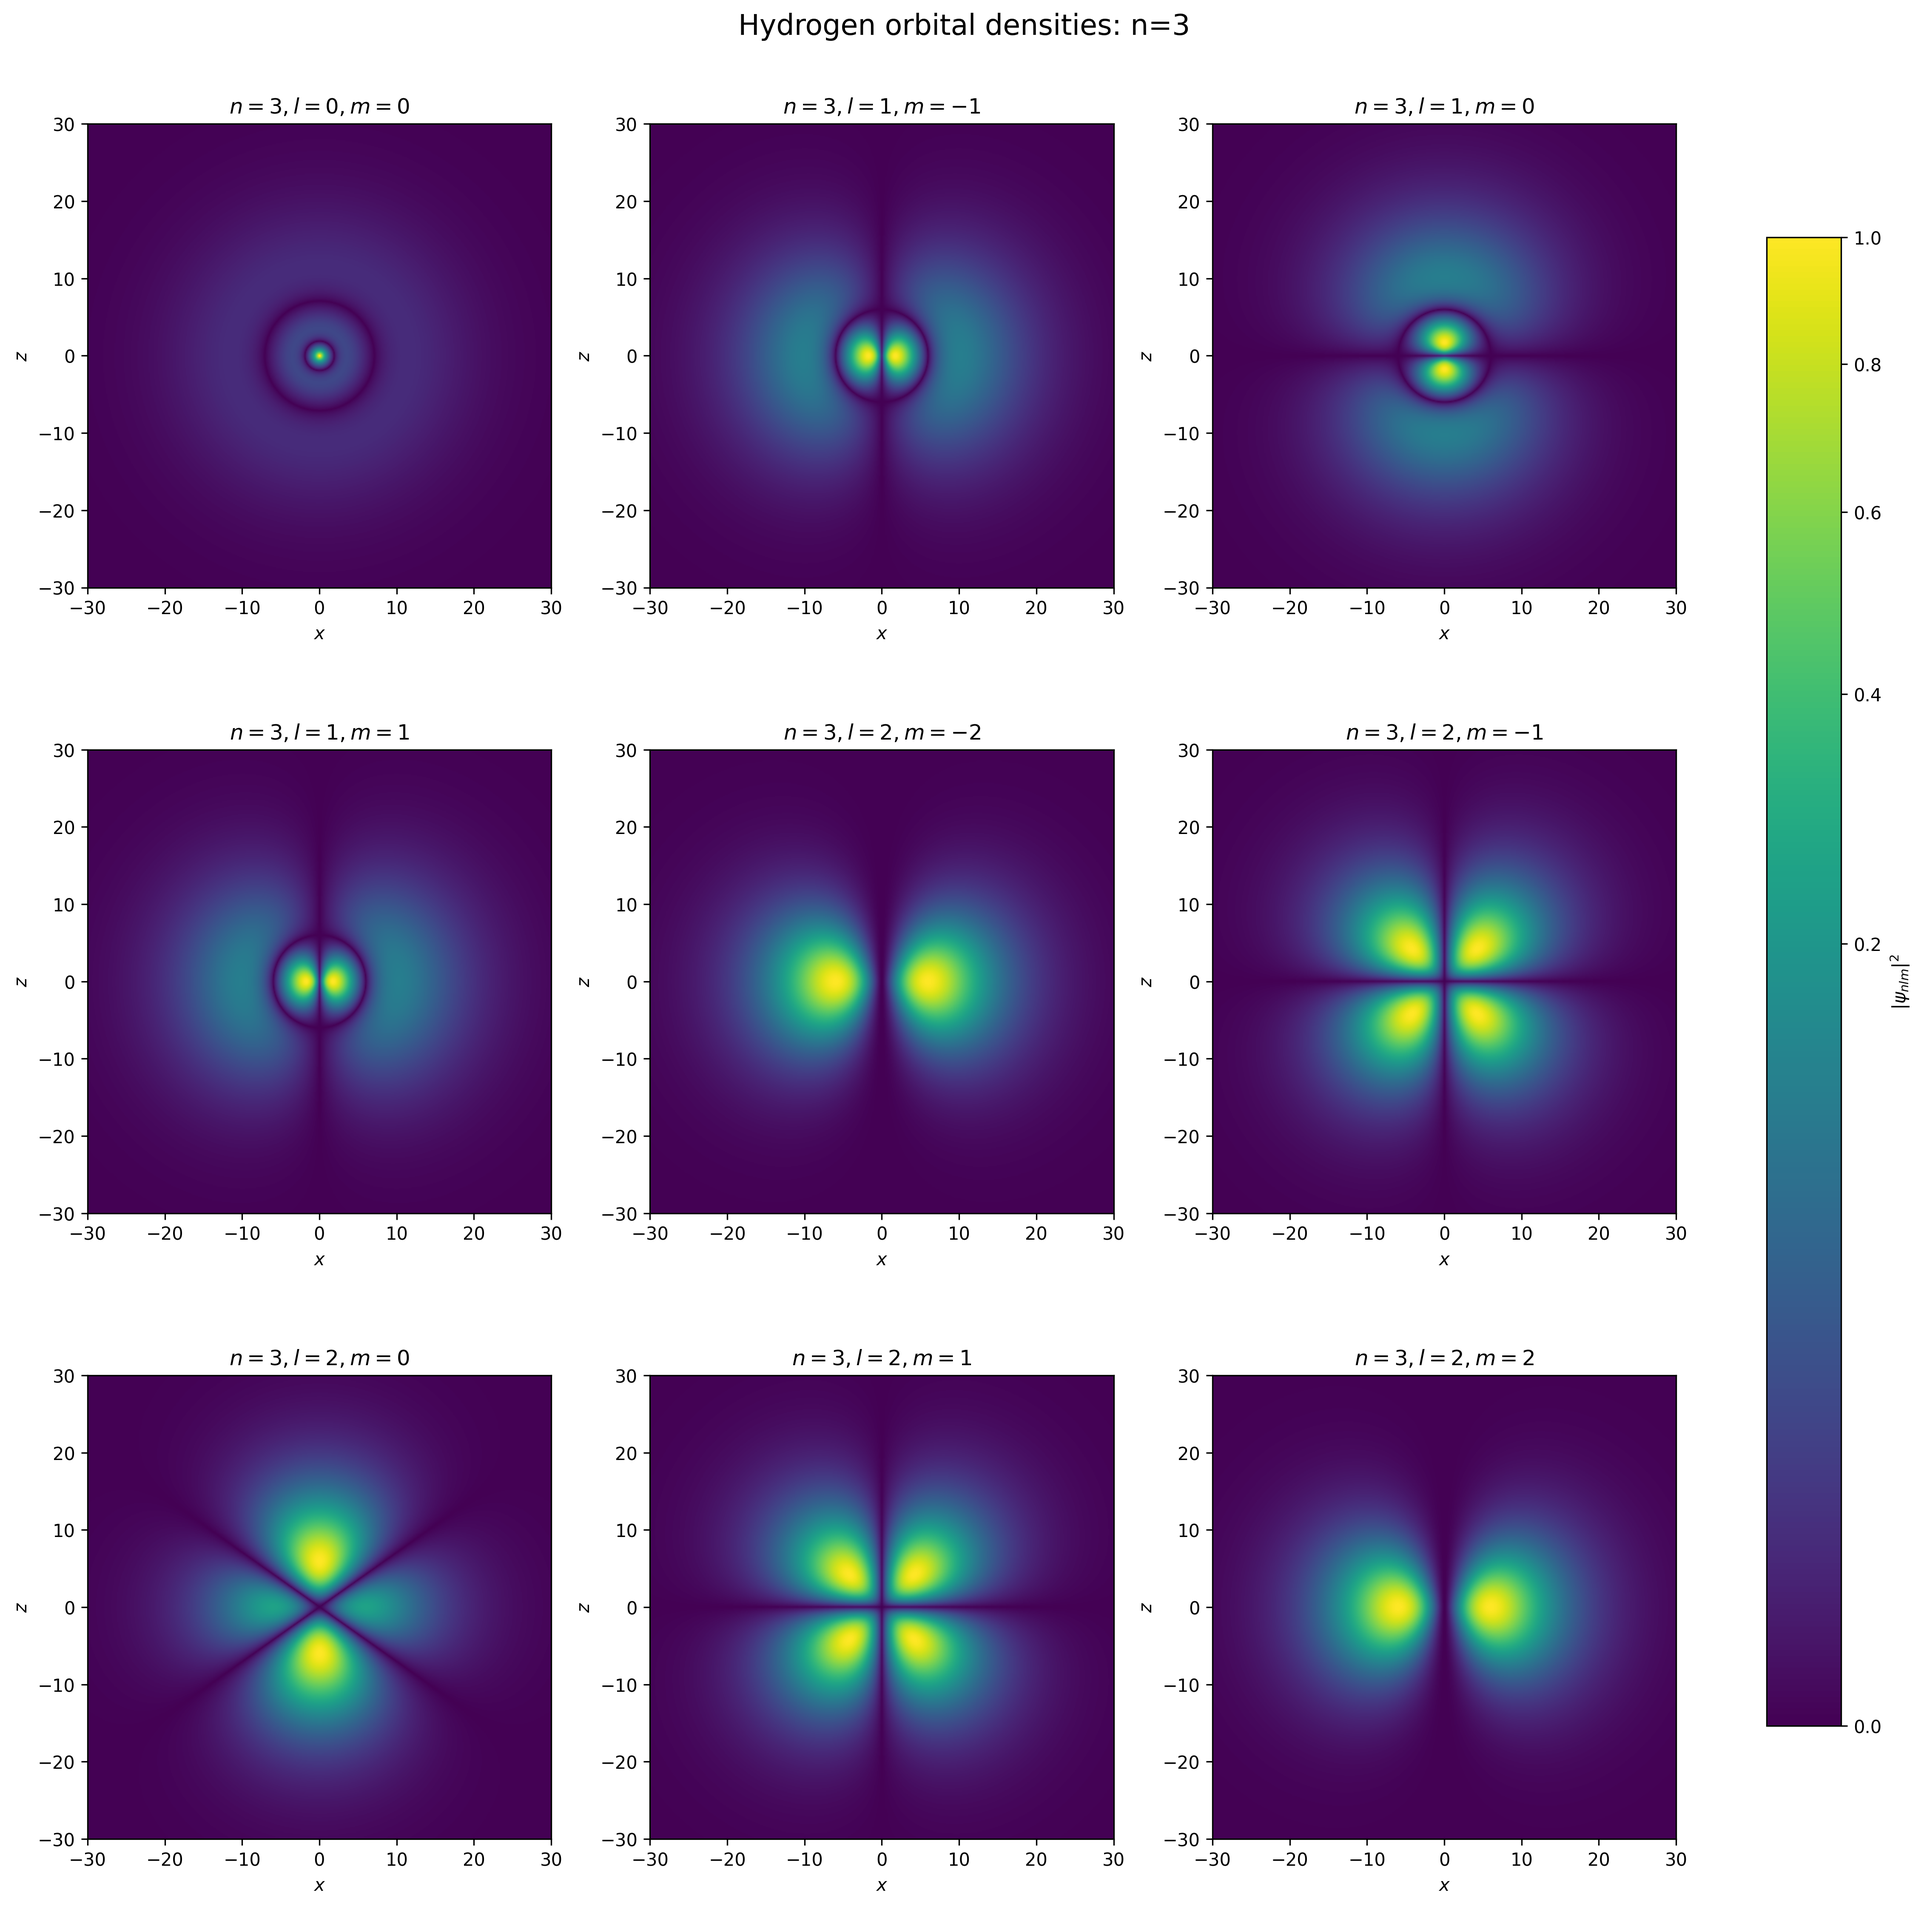
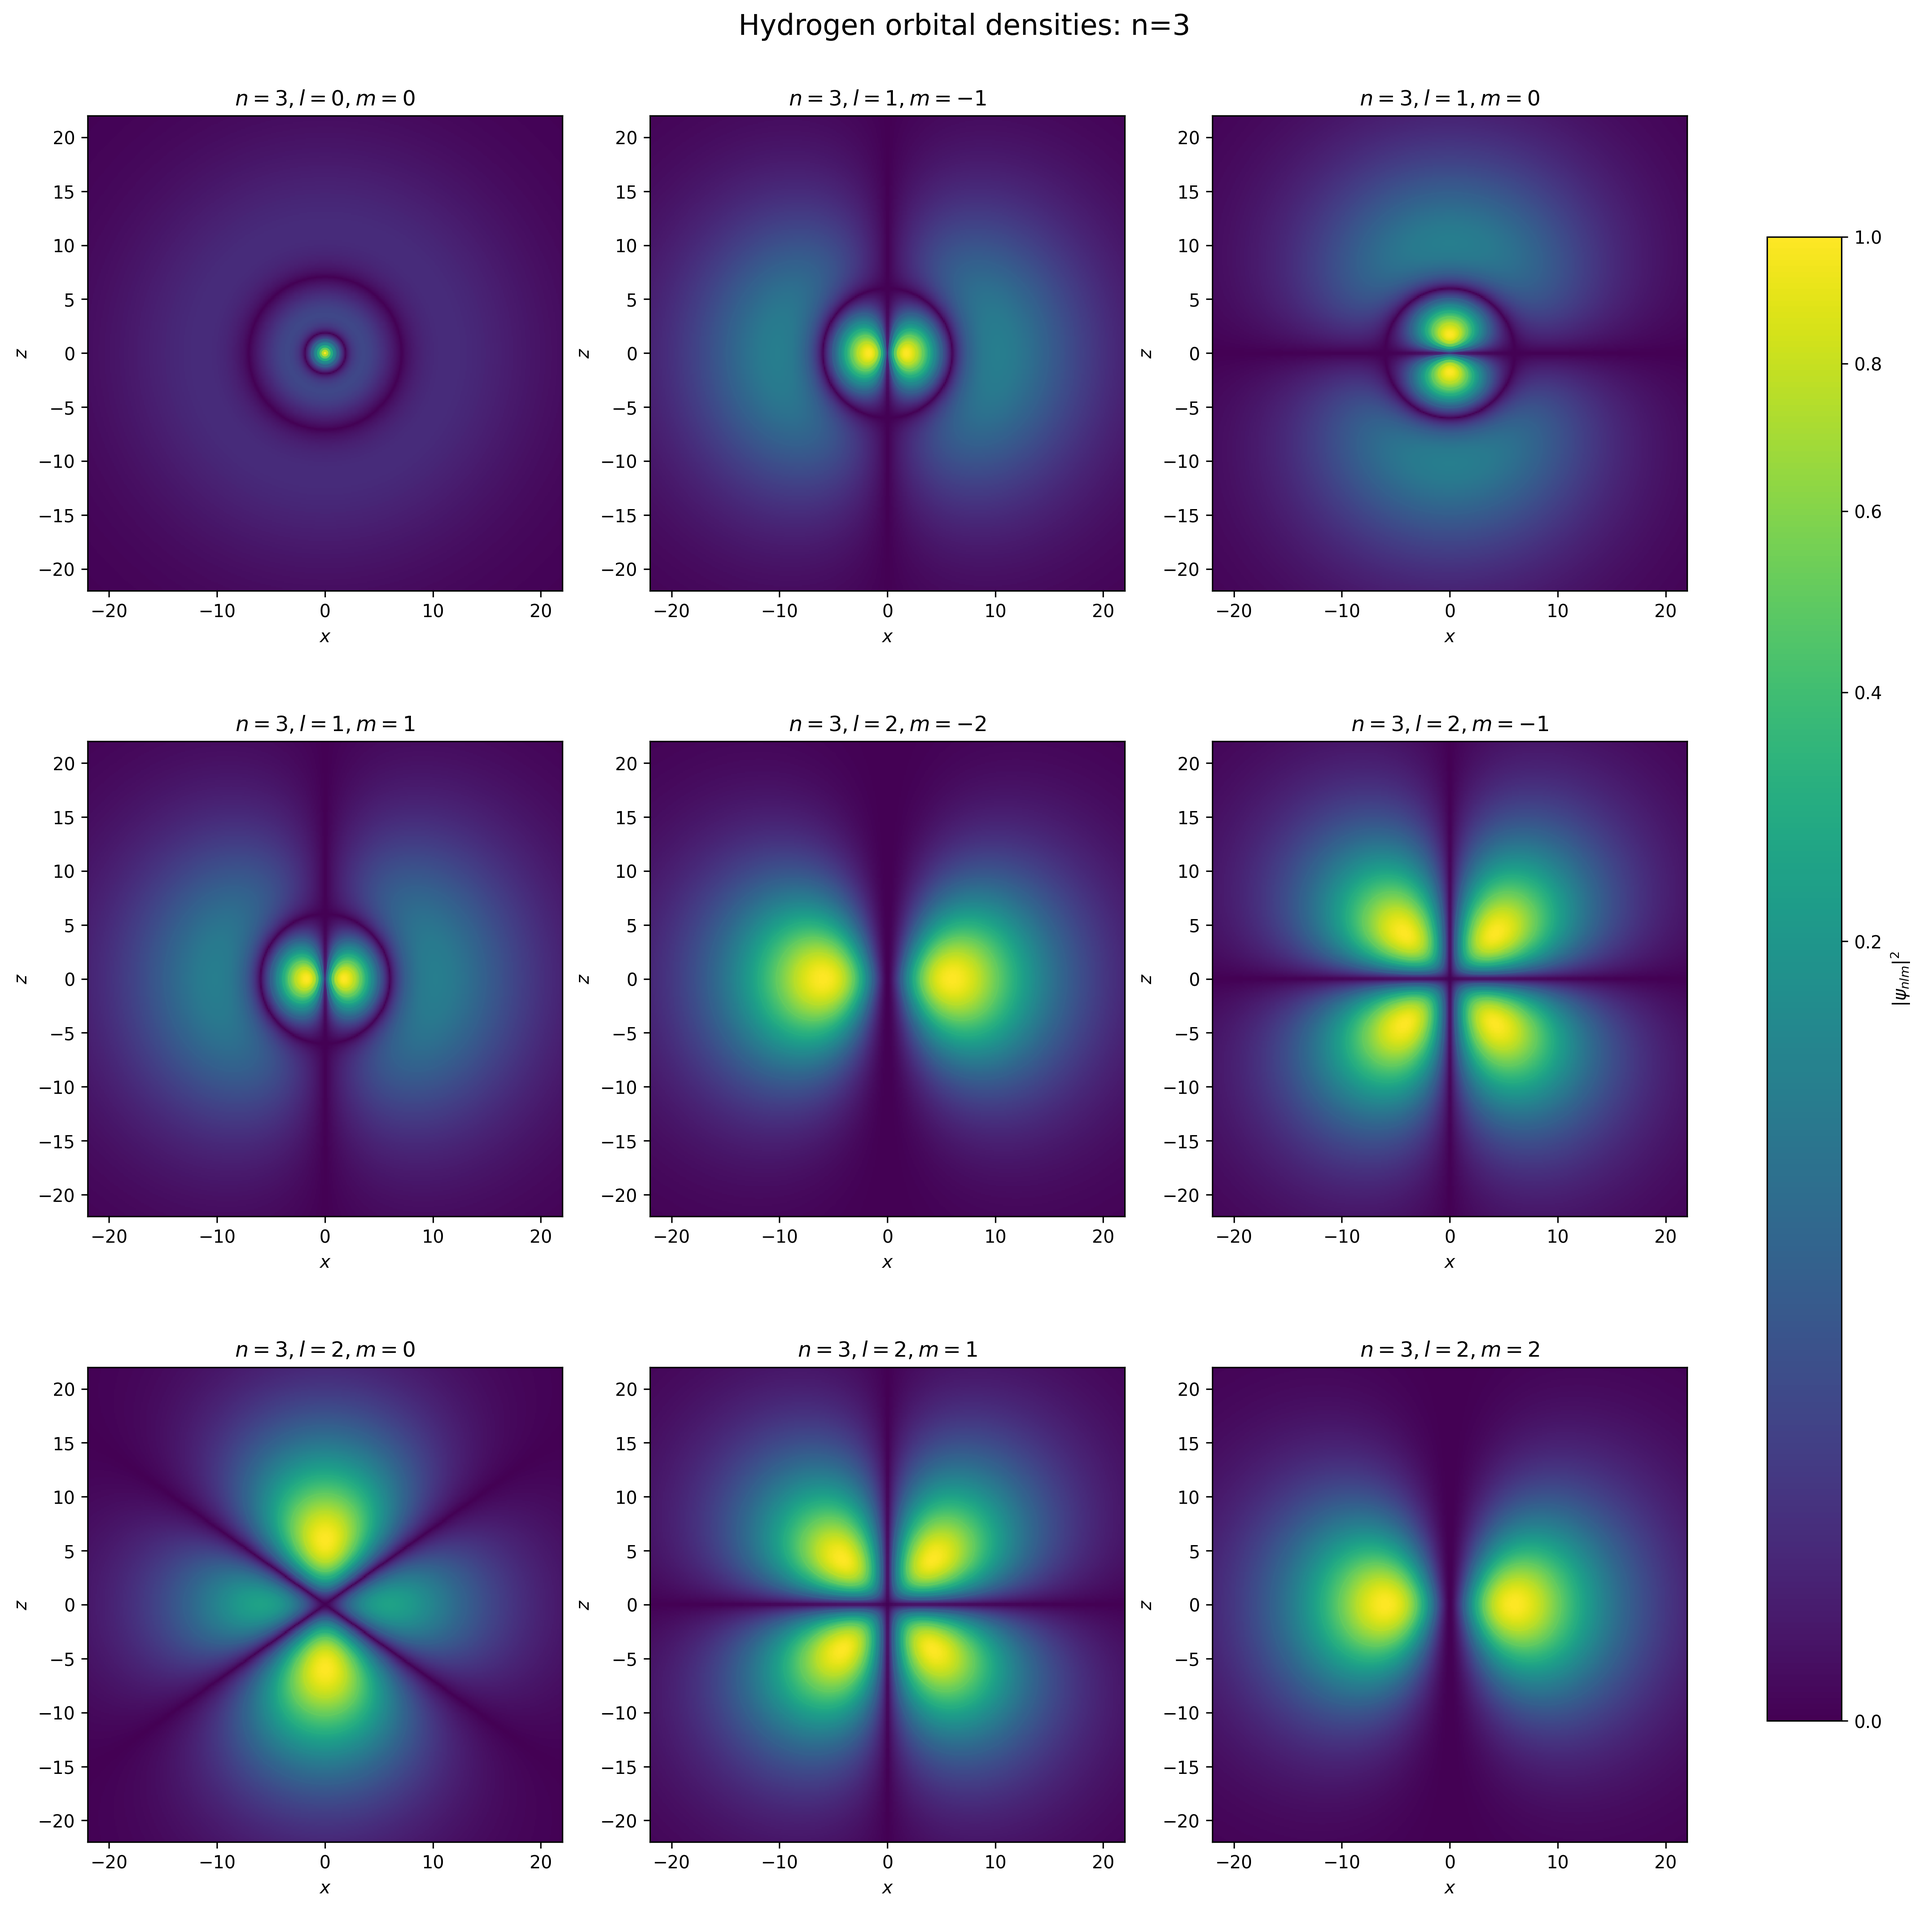
changed 3d iso-plot to cmap viridis, with very good results, and fixed x,y and z limits

diff --git a/visualization/plot_3d.py b/visualization/plot_3d.py
@@ -1,25 +1,54 @@
+
 import matplotlib.pyplot as plt
-# import os
 import numpy as np
-# from matplotlib.colors import PowerNorm
+
 from skimage.measure import marching_cubes
+from matplotlib import cm
+from matplotlib.colors import PowerNorm
+from mpl_toolkits.mplot3d.art3d import Poly3DCollection
+
+# Shared visualization settings
+CMAP = cm.viridis
+
+LEVELS = [0.05, 0.15, 0.30, 0.50, 0.75]
+
+NORM = PowerNorm(
+    gamma=0.4,
+    vmin=0,
+    vmax=1
+)
 
 def save_plot(filename):
 
     plt.savefig(
-        f"Radial-wave-equations-in-3D\isosurfaces/{filename}.png",
+        f"Radial-wave-equations-in-3D/isosurfaces/{filename}.png",
         dpi=300,
         bbox_inches="tight"
     )
 
-def plot_isosurface_3d(x, y, z, densities, n, threshold=0.15, filename="isosurface"):
 
-    # Number of orbitals
+def get_plot_limits(n):
+
+    limits = {
+        1: 8,
+        2: 15,
+        3: 22,
+        4: 30
+    }
+
+    return limits[n]
+
+
+
+def plot_isosurface_3d(
+    x, y, z, densities, n,
+    filename="isosurface"
+):
+
     orbitals = list(densities.keys())
 
     num_orbitals = len(orbitals)
 
-    # Find rows and columns
     cols = int(np.ceil(np.sqrt(num_orbitals)))
     rows = int(np.ceil(num_orbitals / cols))
 
@@ -28,31 +57,21 @@ def plot_isosurface_3d(x, y, z, densities, n, threshold=0.15, filename="isosurfa
         constrained_layout=True
     )
 
-    # Grid spacing
     spacing = (
         x[1] - x[0],
         y[1] - y[0],
         z[1] - z[0]
     )
 
+    limits = get_plot_limits(n)
+
     for i, (l, m) in enumerate(orbitals):
 
         density = densities[(l, m)]
 
-        # Define probability threshold
-        level = threshold * np.max(density)
+        # Normalize density
+        density = density / np.max(density)
 
-        # Marching cubes
-        vertices, faces, normals, values = marching_cubes(
-            density,
-            level=level,
-            spacing=spacing
-        )
-
-        # Shift vertices to correct coordinates
-        vertices += np.array([x[0], y[0], z[0]])
-
-        # Create 3D subplot
         ax = fig.add_subplot(
             rows,
             cols,
@@ -60,17 +79,33 @@ def plot_isosurface_3d(x, y, z, densities, n, threshold=0.15, filename="isosurfa
             projection="3d"
         )
 
-        # Plot isosurface
-        ax.plot_trisurf(
-            vertices[:, 0],
-            vertices[:, 1],
-            vertices[:, 2],
-            triangles=faces,
-            color="green",
-            alpha=0.85,
-            linewidth=0,
-            antialiased=True
-        )
+        # Plot each isosurface
+        for level in LEVELS:
+
+            vertices, faces, normals, values = marching_cubes(
+                density,
+                level=level,
+                spacing=spacing
+            )
+
+            # Shift vertices to physical coordinates
+            vertices += np.array([x[0], y[0], z[0]])
+
+            # Construct triangular mesh
+            mesh = vertices[faces]
+
+            # Get corresponding colormap color
+            color = CMAP(NORM(level))
+
+            # Create isosurface
+            surface = Poly3DCollection(
+                mesh,
+                facecolors=color,
+                edgecolors="none",
+                alpha=0.18
+            )
+
+            ax.add_collection3d(surface)
 
         ax.set_title(f"$n={n}, l={l}, m={m}$")
 
@@ -78,18 +113,32 @@ def plot_isosurface_3d(x, y, z, densities, n, threshold=0.15, filename="isosurfa
         ax.set_ylabel("$y$")
         ax.set_zlabel("$z$")
 
-        ax.set_xlim(-30, 30)
-        ax.set_ylim(-30, 30)
-        ax.set_zlim(-30, 30)
+        ax.set_xlim(-limits, limits)
+        ax.set_ylim(-limits, limits)
+        ax.set_zlim(-limits, limits)
 
         ax.set_box_aspect((1, 1, 1))
+
+    # Shared colorbar
+    scalar_map = cm.ScalarMappable(
+        norm=NORM,
+        cmap=CMAP
+    )
+
+    scalar_map.set_array([])
+
+    fig.colorbar(
+        scalar_map,
+        ax=fig.axes,
+        shrink=0.7,
+        label=r"Relative probability density $|\psi|^2/\max(|\psi|^2)$"
+    )
 
     fig.suptitle(
         f"Hydrogen orbital isosurfaces: n={n}",
         fontsize=16
     )
 
-    # plt.tight_layout()
-
     save_plot(filename)
     plt.close(fig)
+

diff --git a/visualization/plot_2d.py b/visualization/plot_2d.py
@@ -1,12 +1,23 @@
 import matplotlib.pyplot as plt
 import os
 import numpy as np
+from matplotlib import cm
 from matplotlib.colors import PowerNorm
 from skimage.measure import marching_cubes
 # from sympy.physics.quantum.constants import hbar
 # import pyvista as pv
 # import plotly.graph_objects as go
 
+# Shared visualization settings
+CMAP = cm.viridis
+
+LEVELS = [0.05, 0.15, 0.30, 0.50, 0.75]
+
+NORM = PowerNorm(
+    gamma=0.4,
+    vmin=0,
+    vmax=1
+)
 
 def save_plot(filename):
 
@@ -15,6 +26,17 @@ def save_plot(filename):
         dpi=300,
         bbox_inches="tight"
     )
+
+def get_plot_limits(n):
+
+    limits = {
+        1: 8,
+        2: 15,
+        3: 22,
+        4: 30
+    }
+
+    return limits[n]
 
 # 
 def plot_radial_function(r, R, filename):
@@ -82,14 +104,12 @@ def plot_all_probabilities(r, probabilities, filename):
     plt.close()
     
 
-def plot_density_subplots(X, Z, densities, n, filename):
+def plot_density_subplots(X, Z, densities, n, filename, limits=30):
 
-    # Antal orbitaler for det givne n
     orbitals = list(densities.keys())
 
     num_orbitals = len(orbitals)
 
-    # Find antal rækker og kolonner
     cols = int(np.ceil(np.sqrt(num_orbitals)))
     rows = int(np.ceil(num_orbitals / cols))
 
@@ -100,34 +120,50 @@ def plot_density_subplots(X, Z, densities, n, filename):
         constrained_layout=True
     )
 
-    # Sørg for at axes altid er et array
     axes = np.array(axes).flatten()
 
     for ax, (l, m) in zip(axes, orbitals):
 
         density = densities[(l, m)]
 
-        # Normalisering
+        # Normalize density
         density = density / np.max(density)
 
+        # Plot probability density
         im = ax.imshow(
             density,
             origin="lower",
             extent=[X.min(), X.max(), Z.min(), Z.max()],
-            cmap="viridis", # inferno, cividis, viridis
-            norm=PowerNorm(gamma=0.4), # prøver at gøre plots tydeligere, og lettere at se..
+            cmap=CMAP,
+            norm=NORM,
             aspect="equal"
+        )
+
+        # Add contour lines
+        ax.contour(
+            X,
+            Z,
+            density,
+            levels=LEVELS,
+            colors=[
+                CMAP(NORM(level))
+                for level in LEVELS
+            ],
+            linewidths=1.2
         )
 
         ax.set_title(f"$n={n}, l={l}, m={m}$")
         ax.set_xlabel("$x$")
         ax.set_ylabel("$z$")
 
-    # Fjern overskydende subplots
+        limits = get_plot_limits(n)
+
+        ax.set_xlim(-limits, limits)
+        ax.set_ylim(-limits, limits)
+
     for ax in axes[num_orbitals:]:
         ax.remove()
 
-    # Colorbar
     fig.colorbar(
         im,
         ax=fig.axes,

diff --git a/main.py b/main.py
@@ -185,7 +185,6 @@ def main():
             z,
             densities,
             n,
-            threshold=0.15,
             filename=f"isosurface_n{n}"
         )
 
